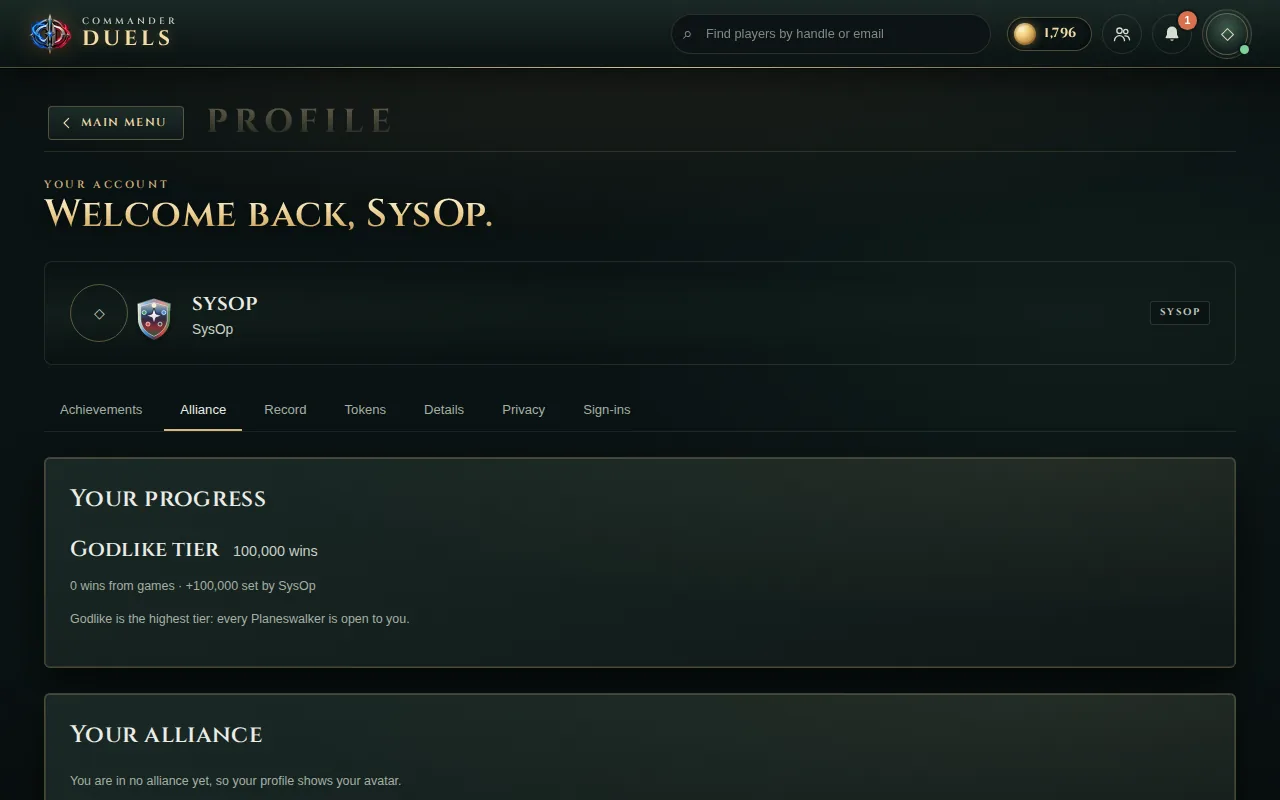
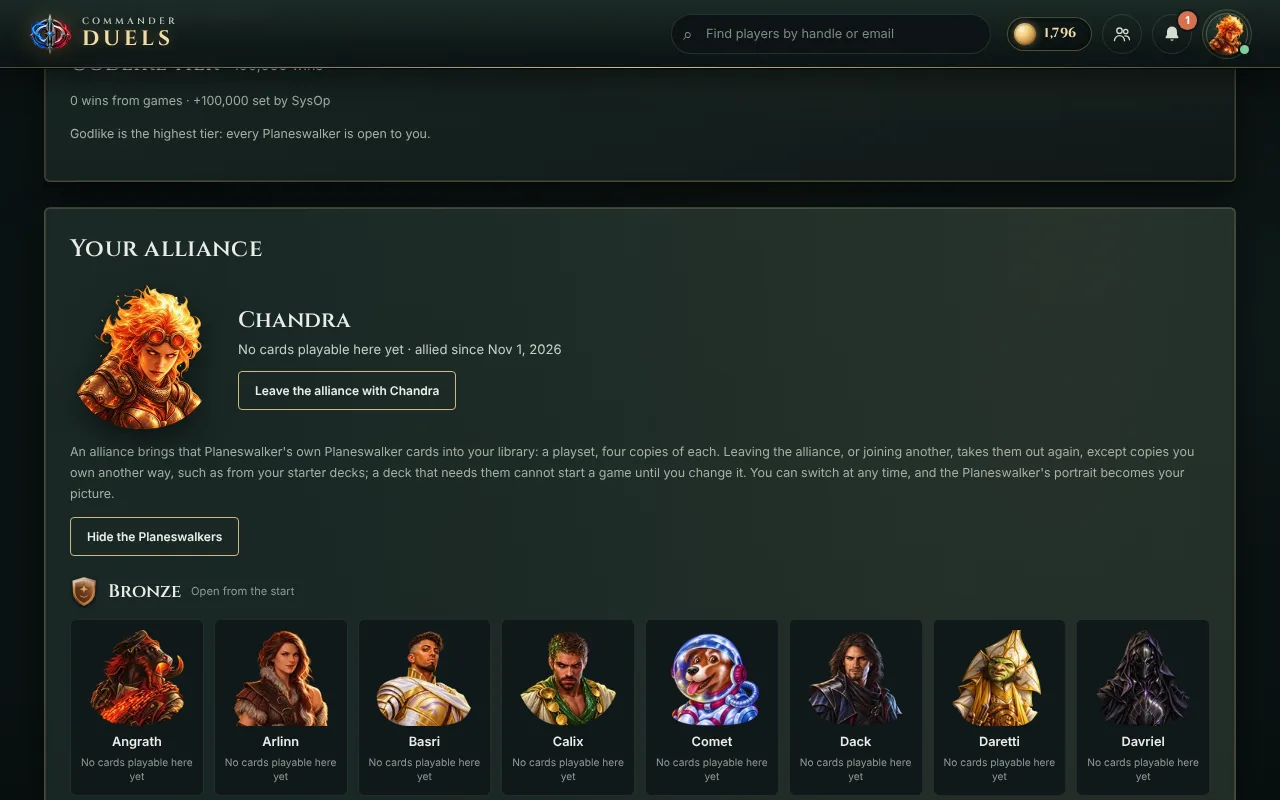
v0.8.4: the welcome's Alliance allied with Chandra, the pictures' words, and the helper workflow gone
Claude-Session: https://claude.ai/code/session_01G8P7nchsaUsMkcjjw39PWR

diff --git a/web/e2e/welcome-shots.spec.ts b/web/e2e/welcome-shots.spec.ts
@@ -181,15 +181,44 @@ test.describe("the welcome's screenshots", () => {
   });
 
   test("the Alliance", async ({ page }) => {
+    // Allied with a Planeswalker, the picker open on the others.
+    const allied = await page.evaluate(async () => {
+      const me = (await (await fetch("/api/v1/me")).json()) as {
+        csrf_token: string;
+      };
+      const roster = (await (await fetch("/api/v1/planeswalkers")).json()) as {
+        id: string;
+        open: boolean;
+        custom: boolean;
+      }[];
+      const ally =
+        roster.find((item) => item.id === "chandra" && item.open) ??
+        roster.find((item) => item.open && !item.custom);
+      const response = await fetch("/api/v1/me/alliance", {
+        method: "PUT",
+        headers: {
+          "Content-Type": "application/json",
+          "X-CSRF-Token": me.csrf_token,
+        },
+        body: JSON.stringify({ planeswalker: ally!.id }),
+      });
+      return response.status;
+    });
+    expect(allied).toBe(200);
     await page.goto("/#profile");
+    // The account as the server has it now, with its ally.
+    await page.reload();
     await page.getByRole("tab", { name: "Alliance" }).click();
     const alliance = page.locator("#alliance-title");
     await expect(alliance).toBeVisible();
+    await page.locator('[aria-controls="alliance-picker"]').click();
+    await expect(page.locator("#alliance-picker img").first()).toBeVisible();
     await hideChatBar(page);
+    await picturesSettled(page);
+    await page.waitForTimeout(1_000);
     await alliance.evaluate((node) => node.scrollIntoView({ block: "start" }));
     await page.evaluate(() => window.scrollBy(0, -90));
-    await picturesSettled(page);
-    await page.waitForTimeout(1_500);
+    await page.waitForTimeout(800);
     await page.screenshot({ path: `${OUT}/alliance.png` });
   });
 });

diff --git a/web/src/app/SetupWizard.tsx b/web/src/app/SetupWizard.tsx
@@ -94,28 +94,28 @@ const SHOTS = [
     title: "The table",
     caption:
       "Commander and Legacy at a 16:9 table, against bots or other players.",
-    alt: "A Commander game at the table: creatures on both sides, the opponent's hand and both libraries face down, the player's hand along the bottom.",
+    alt: "A Commander game at the table: Sigarda attacks across the red band for 5 commander damage, creatures and lands on both sides, both libraries face down showing the card back.",
   },
   {
     name: "decks",
     title: "The deck builder",
     caption:
       "Build decks from your own library; each format's rules are checked as you go.",
-    alt: "The deck builder: a starter deck open, with its commander's card, rules, legality and printings.",
+    alt: "The deck builder: a Commander deck led by Kenrith, the Returned King, ready to play, its cards shown as pictures beside the card search.",
   },
   {
     name: "shop",
     title: "Leng's card shop",
     caption:
       "Wins earn tokens: spend them on packs from Revised to today, and on more decks.",
-    alt: "Leng's card shop: a booster pack opened at the counter, its cards turning over one by one.",
+    alt: "Leng's card shop: a Zendikar Rising pack opened at the counter, half its cards turned over and the rest still face down.",
   },
   {
     name: "alliance",
     title: "The Planeswalker Alliance",
     caption:
       "Ally with a Planeswalker for their cards and portrait; more open as you win.",
-    alt: "The Planeswalker Alliance: the Planeswalkers' portraits to choose an ally from.",
+    alt: "The Planeswalker Alliance on Profile: allied with Chandra, with the Bronze tier's Planeswalker portraits to choose from.",
   },
 ] as const;
 

diff --git a/docs/verification.md b/docs/verification.md
@@ -1,5 +1,18 @@
 # Verification
 
+## v0.8.4
+
+Built on November 1, 2026 in a cloud workspace, on the branch `tutorial-0.8.4`. The package registries opened partway through (the owner allowed every domain); before that, the branch's checks ran on hosted CI through a temporary helper workflow (`assist.yml`, removed before the merge) that regenerated the contracts with Python 3.12, formatted, and ran the quick checks.
+
+| Check | Result |
+|---|---|
+| Python | `ruff check` and `ruff format --check` clean; `pytest` locally on Python 3.13 against PostgreSQL 16: 447 passed, 28 skipped, one failure that is the workspace's alone (`test_upgrade_needs_a_set_up_vm` runs as root, which the deploy kit refuses on purpose); the whole suite with `mypy` on hosted CI (Python 3.12). New: `tests/test_tutorial.py` (paths and stages, a skip, inactive accounts), the reset starting the tutorial again |
+| Migrations | `alembic upgrade head` and `alembic check` against PostgreSQL 16 locally, with migration 0033 |
+| Contracts | regenerated on Python 3.12 (3.13's Starlette names a 422 "Unprocessable Content", 3.12's "Unprocessable Entity"; the committed document is 3.12's, as CI's drift check expects) |
+| Web | `tsc -b`, 1,358 Vitest tests in 108 files and the production build passed locally. New: `web/src/tutorial/tutorial.test.tsx` (the guided game's script: rising revisions, unique objects, the stack, the end by 25 commander damage; the best card of a pack and the suggested prices; the three paths in the wizard; the tour's first bubble, its move on after a pack and its skip) |
+| The welcome's screenshots | `web/e2e/welcome-shots.spec.ts` in Chromium at 1280 x 800, locally (without card pictures: the API asks Scryfall directly, and this workspace reaches it only through a proxy) and on hosted CI with them, against the test catalog; looked at: the guided game's board with both libraries face down in the real card back, the deck builder, a pack half turned over with the real card back, the Alliance. The first look also found the guided game played from Mira's seat said "Your turn" and "Another tab is playing this seat"; it is now watched from no seat |
+| Hosted CI | on the branch: run 41347979621 (d66c31a) green in both jobs (the Python checks and tests, the contracts' drift check, the web's tests, build and browser journeys, ShellCheck; the engine's build and tests, practice games through the API and in the browser), after a run whose contracts were exported on Python 3.13. The helper workflow took the screenshots of the table, the deck builder and the pack with card pictures (run 41347979646); the Alliance's was taken locally, its portraits being the site's own. The final commit's run, with the helper removed, is in the release notes |
+
 ## v0.8.3
 
 Built on November 1, 2026 in a cloud workspace with no package registry (no PyPI, npm or Maven Central), on the branch `fixes-0.8.3`.
